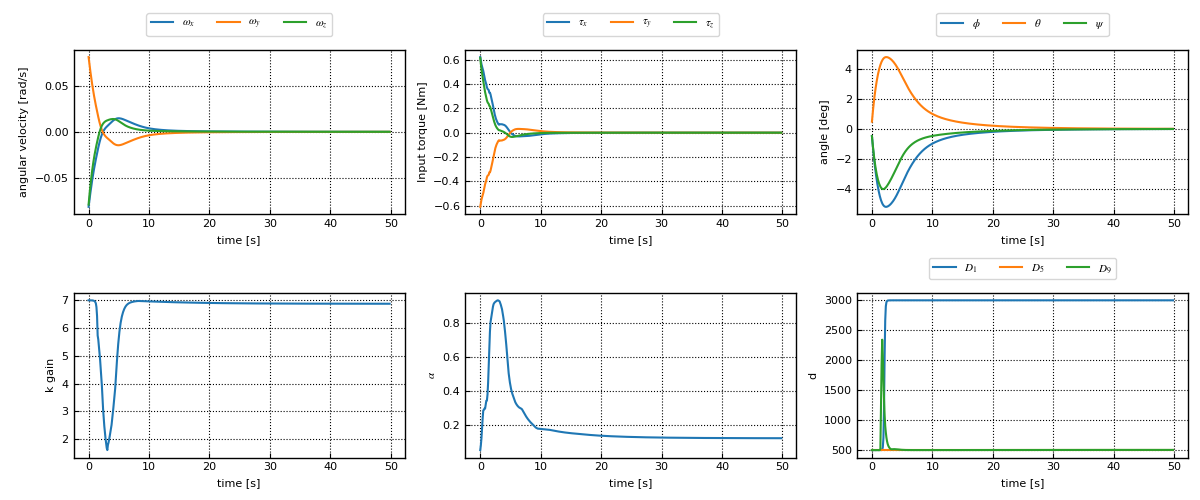
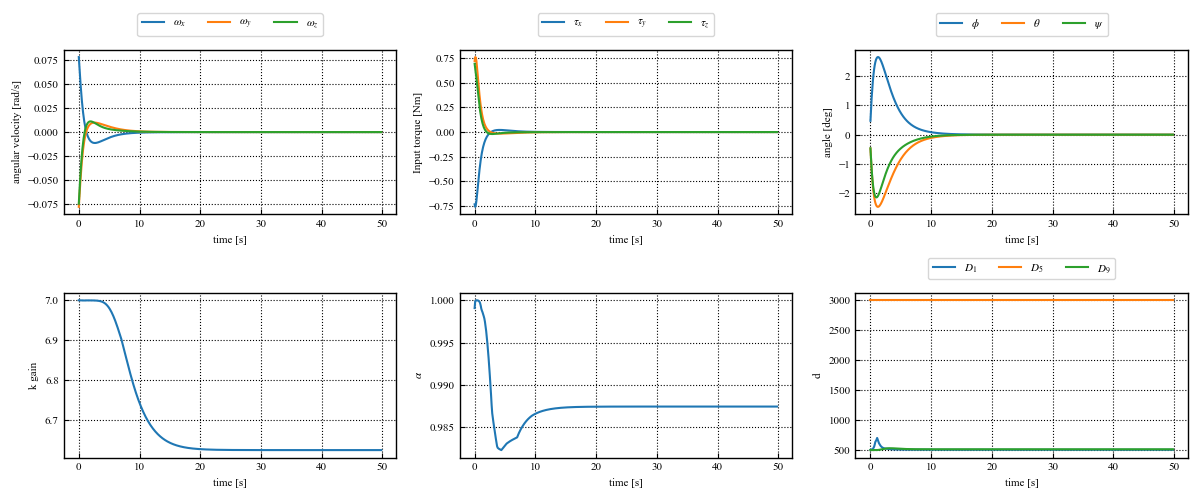
CHANGE: reward func and initial est

diff --git a/td3/environment.py b/td3/environment.py
@@ -190,7 +190,7 @@ class SatelliteContinuousEnv(gym.Env):
         # Angle, angle speed and speed at which to fail the episode
         self.maxOmega = 0.5
         self.angle_thre = 0.999962
-        self.max_torque = 1
+        self.max_torque = 0.5
 
         self.max_action = 1
         self.lower_action = -1
@@ -278,12 +278,12 @@ class SatelliteContinuousEnv(gym.Env):
         # 報酬関数
         #--------REWARD---------
         if not done:
-            # if max(abs(action)) > self.max_torque:
-            #     reward = -(self.q_weight*((1-qe_new[0])**2 + qe_new[1:]@qe_new[1:]) + self.w_weight*omega_new@omega_new + 3*action@action) 
-            # else:
+
             #状態と入力を抑えたい
             reward = -(self.q_weight*((1-qe_new[0])**2 + qe_new[1:]@qe_new[1:]) + self.w_weight*omega_new@omega_new + self.action_weight*action@action) 
-    
+            if max(abs(action)) > self.max_torque:
+                reward += -5
+
         elif self.steps_beyond_done is None:
             # epsiode just ended
             self.steps_beyond_done = 0

diff --git a/td3/train.py b/td3/train.py
@@ -116,7 +116,7 @@ def evaluate():
     k_max = 7
     alpha_max = 1
 
-    th_e = np.array(env.inertia.flatten())
+    th_e = np.array(env.inertia.flatten()*env.multi)
     with tqdm(range(max_steps),leave=False) as pbar:
         for i, ch in enumerate(pbar):
             action = agent.get_action(state )
